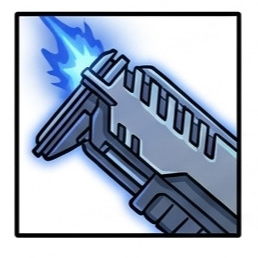
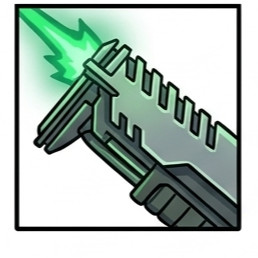
feat: adicionar comando chat, renomear dump→all e corrigir ícones Terran
- Renomeia subcomando 'dump' para 'all' com flag --image para gráfico combinado
- Adiciona subcomando 'chat' para extrair mensagens de chat (src/chat.rs)
- Adiciona módulos all_image e chat em main.rs
- Corrige assinatura de to_supply_block_csv para receber lps
- Move game_speed_to_loops_per_second para utils.rs
- Corrige ordem dos ícones de upgrades Terran (pares _1/_2 estavam trocados)

diff --git a/src/chat.rs b/src/chat.rs
@@ -1,0 +1,124 @@
+use std::collections::HashMap;
+use std::path::Path;
+
+use s2protocol::message_events::{GameEMessageRecipient, ReplayMessageEvent};
+
+use crate::utils::{extract_clan_and_name, game_speed_to_loops_per_second};
+
+pub struct ChatEntry {
+    pub game_loop: u32,
+    pub player_name: String,
+    pub recipient: String,
+    pub message: String,
+}
+
+pub struct ChatResult {
+    pub datetime: String,
+    pub map_name: String,
+    pub loops_per_second: f64,
+    pub entries: Vec<ChatEntry>,
+}
+
+pub fn extract_chat(path: &Path, max_time_seconds: u32) -> Result<ChatResult, String> {
+    let path_str = path.to_str().unwrap_or_default();
+
+    let (mpq, file_contents) =
+        s2protocol::read_mpq(path_str).map_err(|e| format!("{:?}", e))?;
+    let details =
+        s2protocol::read_details(path_str, &mpq, &file_contents).map_err(|e| format!("{:?}", e))?;
+
+    let loops_per_second = game_speed_to_loops_per_second(&details.game_speed);
+
+    let datetime =
+        s2protocol::transform_to_naivetime(details.time_utc, details.time_local_offset)
+            .map(|dt| dt.format("%Y-%m-%dT%H:%M:%S").to_string())
+            .unwrap_or_else(|| "0000-00-00T00:00:00".to_string());
+
+    // user_id (1-based index in player_list) → display name
+    let user_names: HashMap<i64, String> = details
+        .player_list
+        .iter()
+        .enumerate()
+        .map(|(i, p)| {
+            let (_, name) = extract_clan_and_name(&p.name);
+            ((i + 1) as i64, name)
+        })
+        .collect();
+
+    let max_loops = if max_time_seconds == 0 {
+        0u32
+    } else {
+        (max_time_seconds as f64 * loops_per_second).round() as u32
+    };
+
+    let message_events =
+        s2protocol::read_message_events(path_str, &mpq, &file_contents)
+            .map_err(|e| format!("{:?}", e))?;
+
+    let mut game_loop: i64 = 0;
+    let mut entries: Vec<ChatEntry> = Vec::new();
+
+    for ev in message_events {
+        game_loop += ev.delta;
+        let loop_u32 = game_loop.max(0) as u32;
+        if max_loops != 0 && loop_u32 > max_loops {
+            break;
+        }
+
+        let ReplayMessageEvent::EChat(msg) = ev.event;
+        let player_name = user_names
+            .get(&ev.user_id)
+            .cloned()
+            .unwrap_or_else(|| format!("Player{}", ev.user_id));
+
+        let recipient = match msg.m_recipient {
+            GameEMessageRecipient::EAll => "all",
+            GameEMessageRecipient::EAllies => "allies",
+            GameEMessageRecipient::EIndividual => "individual",
+            GameEMessageRecipient::EBattlenet => "battlenet",
+            GameEMessageRecipient::EObservers => "observers",
+        }
+        .to_string();
+
+        entries.push(ChatEntry {
+            game_loop: loop_u32,
+            player_name,
+            recipient,
+            message: msg.m_string,
+        });
+    }
+
+    Ok(ChatResult {
+        datetime,
+        map_name: details.title,
+        loops_per_second,
+        entries,
+    })
+}
+
+pub fn to_chat_txt(result: &ChatResult, player_names: (&str, &str)) -> String {
+    let mut lines: Vec<String> = Vec::new();
+
+    let date = &result.datetime[..10]; // "YYYY-MM-DD"
+    lines.push(format!(
+        "# Chat – {} {} – {} vs {}",
+        date, result.map_name, player_names.0, player_names.1
+    ));
+    lines.push(String::new());
+
+    if result.entries.is_empty() {
+        lines.push("(sem mensagens de chat)".to_string());
+    } else {
+        for entry in &result.entries {
+            let secs = (entry.game_loop as f64 / result.loops_per_second).round() as u32;
+            let mm = secs / 60;
+            let ss = secs % 60;
+            lines.push(format!(
+                "[{:02}:{:02}] {} ({}): {}",
+                mm, ss, entry.player_name, entry.recipient, entry.message
+            ));
+        }
+    }
+
+    lines.join("\n") + "\n"
+}

diff --git a/src/main.rs b/src/main.rs
@@ -2,10 +2,12 @@ use std::path::PathBuf;
 
 use clap::{Parser, Subcommand};
 
+mod all_image;
 mod army_value;
 mod army_value_image;
 mod build_order;
 mod build_order_image;
+mod chat;
 mod commands;
 mod icons;
 mod replay;
@@ -28,8 +30,8 @@ enum Commands {
         #[arg(env = "SC2RU_DIR")]
         dir: Option<PathBuf>,
     },
-    /// Exporta metadados de replays para YAML (um arquivo por replay)
-    Dump {
+    /// Exporta metadados YAML e gera gráfico combinado (army value, build order, supply block)
+    All {
         /// Arquivo .SC2Replay ou diretório com replays (padrão: sc2replays-pack) [env: SC2RU_PATH]
         #[arg(env = "SC2RU_PATH")]
         path: Option<PathBuf>,
@@ -51,6 +53,9 @@ enum Commands {
         /// Diretório onde o SC2 salva os replays, usado com --latest [env: SC2_REPLAY_DIR]
         #[arg(long, env = "SC2_REPLAY_DIR")]
         sc2_replay_dir: Option<PathBuf>,
+        /// Gera também imagem PNG combinada com todos os gráficos [env: SC2RU_IMAGE]
+        #[arg(long, env = "SC2RU_IMAGE")]
+        image: bool,
     },
     /// Detecta ocorrências de supply block e grava CSV por jogador (<stem>_p1.csv, <stem>_p2.csv)
     SupplyBlock {
@@ -94,6 +99,24 @@ enum Commands {
         #[arg(long, env = "SC2RU_IMAGE")]
         image: bool,
     },
+    /// Extrai mensagens de chat e grava arquivo de texto (<stem>_chat.txt)
+    Chat {
+        /// Arquivo .SC2Replay ou diretório com replays (padrão: sc2replays-pack) [env: SC2RU_PATH]
+        #[arg(env = "SC2RU_PATH")]
+        path: Option<PathBuf>,
+        /// Diretório de saída (padrão: ./ para arquivo, ./out/ para diretório) [env: SC2RU_OUTPUT]
+        #[arg(long, env = "SC2RU_OUTPUT")]
+        output: Option<PathBuf>,
+        /// Rastreia eventos até este limite em segundos (0 = sem limite, padrão: 0) [env: SC2RU_MAX_TIME]
+        #[arg(long, default_value_t = 0, env = "SC2RU_MAX_TIME")]
+        max_time: u32,
+        /// Usa o replay mais recente encontrado em --sc2-replay-dir [env: SC2RU_LATEST]
+        #[arg(long, env = "SC2RU_LATEST")]
+        latest: bool,
+        /// Diretório onde o SC2 salva os replays, usado com --latest [env: SC2_REPLAY_DIR]
+        #[arg(long, env = "SC2_REPLAY_DIR")]
+        sc2_replay_dir: Option<PathBuf>,
+    },
     /// Extrai a Build Order e grava CSV por jogador (<stem>_p1.csv, <stem>_p2.csv)
     BuildOrder {
         /// Arquivo .SC2Replay ou diretório com replays (padrão: sc2replays-pack) [env: SC2RU_PATH]
@@ -122,14 +145,17 @@ fn main() {
     let cli = Cli::parse();
     match cli.command {
         Commands::Rename { dir } => commands::cmd_rename(dir),
-        Commands::Dump { path, output, stdout, max_time, no_location, latest, sc2_replay_dir } => {
-            commands::cmd_dump(path, output, stdout, max_time, !no_location, latest, sc2_replay_dir)
+        Commands::All { path, output, stdout, max_time, no_location, latest, sc2_replay_dir, image } => {
+            commands::cmd_all(path, output, stdout, max_time, !no_location, latest, sc2_replay_dir, image)
         }
         Commands::SupplyBlock { path, output, max_time, latest, sc2_replay_dir, image } => {
             commands::cmd_supply_block(path, output, max_time, latest, sc2_replay_dir, image)
         }
         Commands::ArmyValue { path, output, max_time, latest, sc2_replay_dir, image } => {
             commands::cmd_army_value(path, output, max_time, latest, sc2_replay_dir, image)
+        }
+        Commands::Chat { path, output, max_time, latest, sc2_replay_dir } => {
+            commands::cmd_chat(path, output, max_time, latest, sc2_replay_dir)
         }
         Commands::BuildOrder { path, output, max_time, latest, sc2_replay_dir, image } => {
             commands::cmd_build_order(path, output, max_time, latest, sc2_replay_dir, image)

diff --git a/src/utils.rs b/src/utils.rs
@@ -4,6 +4,22 @@ use std::process;
 
 pub const DEFAULT_DIR_NAME: &str = "sc2replays-pack";
 
+// ── Helpers de tempo ────────────────────────────────────────────────────────
+
+/// Converte a velocidade do jogo SC2 para game loops por segundo real.
+///
+/// SC2 roda a 16 loops/segundo de jogo. Na velocidade Faster (padrão competitivo),
+/// a simulação avança 1.4× mais rápido, resultando em 22.4 loops por segundo real.
+pub fn game_speed_to_loops_per_second(game_speed: &str) -> f64 {
+    match game_speed {
+        "Slower" => 9.6,
+        "Slow"   => 12.8,
+        "Fast"   => 19.2,
+        "Faster" => 22.4,
+        _        => 16.0, // "Normal" e fallback
+    }
+}
+
 // ── Helpers de string ────────────────────────────────────────────────────────
 
 /// Converte o nome da raça para a letra inicial maiúscula (T/P/Z/R).

diff --git a/src/supply_block.rs b/src/supply_block.rs
@@ -61,15 +61,15 @@ pub fn extract_supply_blocks(
 
 /// Serializa os blocos como CSV de largura fixada.
 /// Colunas: start, end, duration, supply.
-pub fn to_supply_block_csv(entries: &[SupplyBlockEntry]) -> String {
+pub fn to_supply_block_csv(entries: &[SupplyBlockEntry], lps: f64) -> String {
     let rows: Vec<(String, String, String, String)> = entries
         .iter()
         .map(|e| {
             let duration = e.end_loop.saturating_sub(e.start_loop);
             (
-                format_time(e.start_loop),
-                format_time(e.end_loop),
-                format_time(duration),
+                format_time(e.start_loop, lps),
+                format_time(e.end_loop, lps),
+                format_time(duration, lps),
                 e.supply.to_string(),
             )
         })
